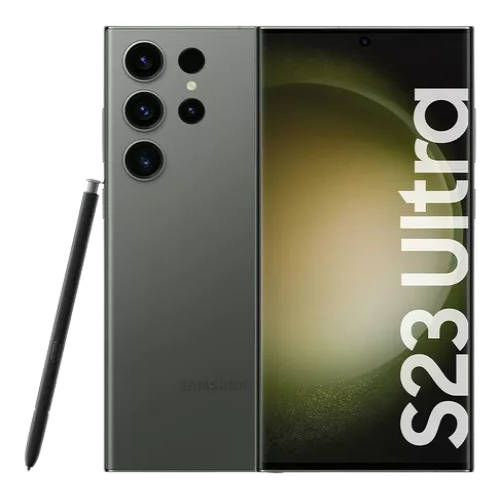
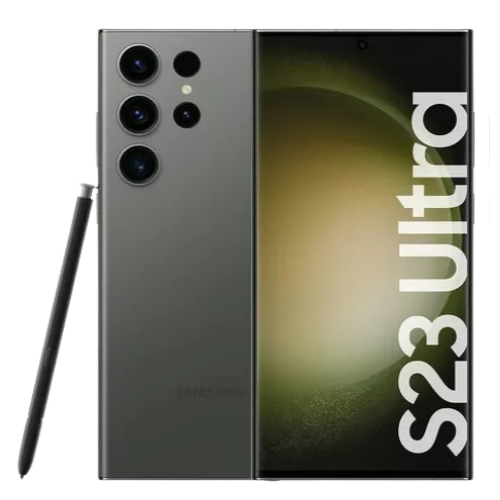
agregue un repositorio

Changed region(s): [[0.03, 0.03, 0.96, 0.96], [0.6, 0.15, 0.69, 0.18], [0.63, 0.78, 0.66, 0.81]]

diff --git a/index.html b/index.html
@@ -133,7 +133,7 @@
         <div class="collection-list mt-4 row gx-0 gy-3">
             <div class="col-md-6 col-lg-4 col-xl-3 p-2 me-0">
                 <div class="collection-img position-relative Samsung">
-                    <img src="./src/s23 ultra.png" alt="" class="w-100">
+                    <img class="imagen-sam" src="./src/s23 ultra.png" alt="" class="w-100">
                     <span class="position-absolute bg-green1 text-black justify-content-center align-items-center d-flex">    
                     Sale
                     </span>
@@ -156,7 +156,7 @@
         <!--2-->
             <div class="col-md-6 col-lg-4 col-xl-3 p-2 me-0">
                 <div class="collection-img position-relative Samsung">
-                    <img src="./src/s24 ultra.png" alt="" class="w-100">
+                    <img class="imagen-sam" src="./src/s24 ultra.png" alt="" class="w-100">
                     <span class="position-absolute bg-green1 text-black justify-content-center align-items-center d-flex">    
                     Sale
                     </span>
@@ -178,7 +178,7 @@
         <!--3-->
             <div class="col-md-6 col-lg-4 col-xl-3 p-2 me-0 Samsung">
                 <div class="collection-img position-relative">
-                    <img src="./src/smartphones-samsung-galaxy-z-fold-4-f936-5g-12gb-ram-256gb-gris-verde-samgzf4f936b256ggreu.png" alt="" class="w-100">
+                    <img class="imagen-sam" src="./src/smartphones-samsung-galaxy-z-fold-4-f936-5g-12gb-ram-256gb-gris-verde-samgzf4f936b256ggreu.png" alt="" class="w-100">
                     <span class="position-absolute bg-green1 text-black justify-content-center align-items-center d-flex">    
                     Sale
                     </span>
@@ -201,7 +201,7 @@
         <!--4-->
             <div class="col-md-6 col-lg-4 col-xl-3 p-2 me-0 Samsung">
                 <div class="collection-img position-relative">
-                    <img src="./src/z fold 5.png" alt="" class="w-100">
+                    <img class="imagen-sam" src="./src/z fold 5.png" alt="" class="w-100">
                     <span class="position-absolute bg-green1 text-black justify-content-center align-items-center d-flex">    
                     Sale
                     </span>
@@ -215,8 +215,8 @@
                         <span class="text-primary"><i class="fas fa-star"></i></span>
                         <span class="text-primary"><i class="fas fa-star"></i></span>
                     </div>
-                    <p class="text-capitalize my-1">Samsung S23 Ultra</p>
-                    <span class="fw-bold">50$</span>
+                    <p class="text-capitalize my-1">Samsung Z fold 5</p>
+                    <span class="fw-bold">1.794,00$</span>
                 </div>
             </div>
         <!--4-->
@@ -224,7 +224,7 @@
         <!--5-->
             <div class="col-md-6 col-lg-4 col-xl-3 p-2 me-0">
                 <div class="collection-img position-relative">
-                    <img src="./src/s23 ultra.png" alt="" class="w-100">
+                    <img class="imagen-sam" src="./src/iphone 15.png" alt="" class="w-100">
                     <span class="position-absolute bg-green1 text-black justify-content-center align-items-center d-flex">    
                     Sale
                     </span>
@@ -238,8 +238,8 @@
                         <span class="text-primary"><i class="fas fa-star"></i></span>
                         <span class="text-primary"><i class="fas fa-star"></i></span>
                     </div>
-                    <p class="text-capitalize my-1">Samsung S23 Ultra</p>
-                    <span class="fw-bold">50$</span>
+                    <p class="text-capitalize my-1">Iphone 15</p>
+                    <span class="fw-bold">1.099,99$</span>
                 </div>
             </div>
         <!--5-->
@@ -247,7 +247,7 @@
         <!--6-->
             <div class="col-md-6 col-lg-4 col-xl-3 p-2 me-0">
                 <div class="collection-img position-relative">
-                    <img src="./src/s23 ultra.png" alt="" class="w-100">
+                    <img class="imagen-sam" src="./src/iphine 14.png" alt="" class="w-100">
                     <span class="position-absolute bg-green1 text-black justify-content-center align-items-center d-flex">    
                     Sale
                     </span>
@@ -261,8 +261,8 @@
                         <span class="text-primary"><i class="fas fa-star"></i></span>
                         <span class="text-primary"><i class="fas fa-star"></i></span>
                     </div>
-                    <p class="text-capitalize my-1">Samsung S23 Ultra</p>
-                    <span class="fw-bold">50$</span>
+                    <p class="text-capitalize my-1">Iphone 14</p>
+                    <span class="fw-bold">999.99$</span>
                 </div>
             </div>
         <!--6-->
@@ -319,7 +319,7 @@
                             z flip
                         </p>
                         <span class="fw-bold d-block">$45.00</span>
-                        <a href="#" class=" btn-primary text-dark">add to cart</a>
+                        <a href="#" class=" btn-primary text-dark btn">add to cart</a>
                     </div>
 
                 </div>
@@ -386,6 +386,70 @@
         </div>
     </section>
 <!--Special Products End-->
+
+<!--Ofertas-->
+<section class="py-5" id="ofertas">
+   
+    <div class="container-fluid">
+        
+        <div class="row d-flex align-items-center text-center 
+        justify-content-center justify-content-lg-start text-lg-start">
+            <div class="offers-content text-white">
+        
+                <span class="fs-2">
+                    Discount Up to 40%
+                </span>
+
+                <h2 class="fs-1  mb-4">
+                    Grand Sale Offer!
+                </h2>
+                <a href="" class="btn">Buy Now</a>
+        
+            </div>
+        </div> 
+    </div>
+
+</section>
+<!--Ofertas End-->
+
+<!--Blogs-->
+<section id="blogs" class="py-5">
+    <div class="container">
+        <div class="title text-center py-5">
+            <h2 class="position-relative d-inline-block">
+                Our Latest Blog
+            </h2>
+        </div>
+        <div class="row g-3">
+            <div class="card border-0 col-md col-lg-4 bg-transparent my-3">
+                <img src="./src/fondo nuevo.png" alt="">
+                <div class="card-body px-0">
+                    <h4 class="card-title">Lorem ipsum</h4>
+                    <p class="card-text mt-3 text-muted">
+                        Lorem ipsum, dolor sit amet consectetur adipisicing elit. 
+                        Hic porro perferendis nemo dolorum. Eaque, 
+                        hic! Perspiciatis porro laudantium cum perferendis nulla,
+                        ab molestias, magnam aliquid quaerat eos.
+                        Eos hic accusamus neque vero nesciunt vol.
+                    </p>
+                    <p class="card-text">
+                        <small class="text-muted">
+                            <span class="fw-bold">
+                                Author:
+                            </span>
+                            Joseph Nicholls
+                        </small>
+
+                        
+                    </p>
+                </div>
+            </div>
+        </div>
+
+    </div>
+</section>
+
+
 
 <script src="./js/jquery-3.7.1.js"></script>
 <script src="./bootstrap-5.3.3-dist/js/bootstrap.min.js"></script>

diff --git a/css/main.css b/css/main.css
@@ -1,7 +1,3 @@
-:root{
-    --amarillo:#151020;
-    --azul:#30cef8;
-}
 .bg-primary{
     background-color: #30cef8 !important;
     font-size: 9px;
@@ -13,11 +9,12 @@
 
 .nav-link{
     border-radius: 16px;
+    color: #30cef8 !important;
 }
 
 .nav-link:hover{
     transition: 0.5s;
-    color: #30cef8 !important;
+    color: #2f3477 !important;
 }
 
 @media (min-width:992px){
@@ -66,11 +63,24 @@
 }
 
 .span.text-primary{
-    background-color: var(--azul);
-    color: var(--azul) !important;
+    background-color: #30cef8;
+    color: #30cef8 !important;
 }
 
 #logo{
     width: 50px !important;
     height: 50px !important;
+}
+
+#ofertas{
+    background: url(../src/offer.png) center/cover no-repeat;
+}
+
+#ofertas .row{
+    min-height: 60vh;
+}
+
+.imagen-sam{
+    width: 270px !important;
+    height: 270px !important;
 }
